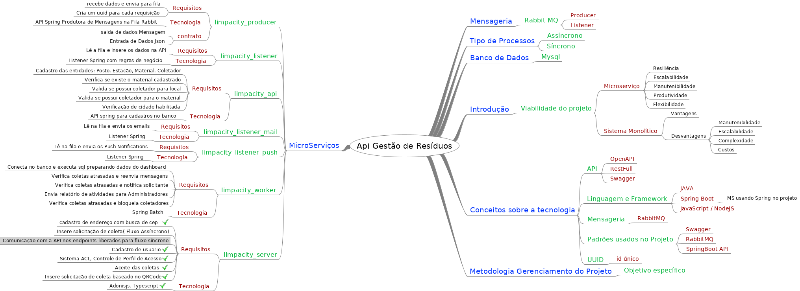
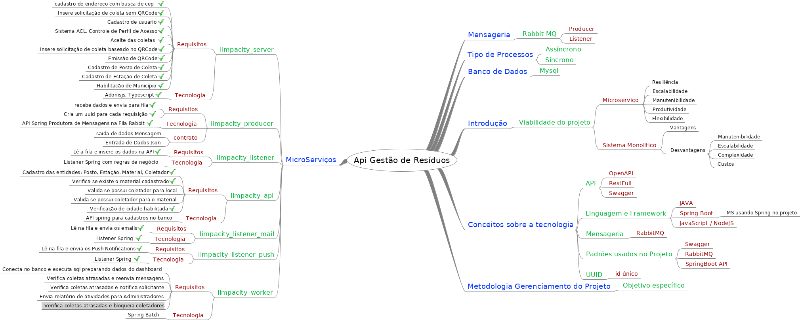
feat: novo endpoint qrcode

diff --git a/app/Controllers/Http/SolicitaColetaQrCodeController.ts b/app/Controllers/Http/SolicitaColetaQrCodeController.ts
@@ -1,0 +1,61 @@
+import { HttpContextContract } from '@ioc:Adonis/Core/HttpContext'
+const axios = require('axios')
+import Env from '@ioc:Adonis/Core/Env'
+const producerQrcodeUrl = Env.get('PRODUCER_QRCODE_URL')
+
+export interface IObjetoColetaQrCode {
+  postoId: string,
+  observacao: string
+}
+
+export default class SolicitaColetaQrCodeController {
+
+  /**
+   * @swagger
+   * /api/qrcode:
+   *   post:
+   *     requestBody:
+   *      content:
+   *        application/json:
+   *          schema:
+   *            type: object
+   *            properties:
+   *              id:
+   *                type: string
+   *                format: uuid
+   *              postoId:
+   *                type: string
+   *                example: 123
+   *                required: true
+   *              observacao:
+   *                type: string
+   *     responses:
+   *       200:
+   *         description: Mensagem enviada com sucesso
+   *         example:
+   *           message: Solicitação enviada, aguarde
+   */
+
+
+  public async store({ request }: HttpContextContract) {
+    const data:any = request.only([
+      'postoId',
+      'observacao'
+    ]);
+    console.log(data);
+
+
+
+    const objetoColetaQrCode: IObjetoColetaQrCode = {
+      postoId: data.postoId,
+      observacao: data.observacao
+    }
+    let solicitaColetaQrCode: any;
+    try {
+      solicitaColetaQrCode = await axios.post(producerQrcodeUrl+data.postoId, objetoColetaQrCode)
+      return solicitaColetaQrCode
+    } catch (error) {
+      error.Request
+    }
+  }
+}

diff --git a/app/Models/SolicitaColeta.ts b/app/Models/SolicitaColeta.ts
@@ -1,5 +1,6 @@
 // import { DateTime } from 'luxon'
-import { BaseModel } from '@ioc:Adonis/Lucid/Orm'
+import {BaseModel, column} from '@ioc:Adonis/Lucid/Orm'
+import {DateTime} from "luxon";
 
 export default class SolicitaColeta extends BaseModel {
   /**
@@ -8,7 +9,7 @@ export default class SolicitaColeta extends BaseModel {
    *    SolicitaColeta:
    *      type: object
    *      properties:
-   *       nomeSolicitante:
+   *       observacao:
    *         type: string
    *       telefone:
    *         type: string

diff --git a/app/Models/SolicitaColetaQrCode.ts b/app/Models/SolicitaColetaQrCode.ts
@@ -1,0 +1,16 @@
+// import { DateTime } from 'luxon'
+import { BaseModel } from '@ioc:Adonis/Lucid/Orm'
+
+export default class SolicitaColetaQrCode extends BaseModel {
+  /**
+   *  @swagger
+   *  definitions:
+   *    SolicitaColetaQrCode:
+   *      type: object
+   *      properties:
+   *       postoId:
+   *         type: string
+   *       observacao:
+   *         type: string
+  */
+}

diff --git a/start/routes.ts b/start/routes.ts
@@ -28,4 +28,5 @@ Route.get('/', async ({ response }) => {
 })
 
 Route.post('/api/solicitacoleta', 'SolicitaColetaController.store')
+Route.post('/api/qrcode', 'SolicitaColetaQrCodeController.store')
 Route.post('/api/endereco/cep', 'EnderecoController.getCep')

diff --git a/docs/limpacity_mapamental.mm b/docs/limpacity_mapamental.mm
@@ -133,18 +133,67 @@
 <node COLOR="#0033ff" CREATED="1617385027289" ID="ID_827839949" MODIFIED="1617387333351" POSITION="left" TEXT="MicroServi&#xe7;os">
 <edge STYLE="sharp_bezier" WIDTH="8"/>
 <font NAME="SansSerif" SIZE="18"/>
+<node COLOR="#00b439" CREATED="1617622982461" ID="ID_191210877" MODIFIED="1617622989605" TEXT="limpacity_server">
+<edge STYLE="bezier" WIDTH="thin"/>
+<font NAME="SansSerif" SIZE="16"/>
+<node COLOR="#990000" CREATED="1617622996673" ID="ID_1390775626" MODIFIED="1617623002361" TEXT="Requisitos">
+<font NAME="SansSerif" SIZE="14"/>
+<node COLOR="#111111" CREATED="1617622885680" ID="ID_1825803125" MODIFIED="1621110416259" TEXT="cadastro de endere&#xe7;o com busca de cep ">
+<font NAME="SansSerif" SIZE="12"/>
+<icon BUILTIN="button_ok"/>
+</node>
+<node COLOR="#111111" CREATED="1617623389057" ID="ID_641814323" MODIFIED="1621112182811" TEXT="Insere solicita&#xe7;&#xe3;o de coleta sem QRCode">
+<icon BUILTIN="button_ok"/>
+</node>
+<node COLOR="#111111" CREATED="1617623675101" ID="ID_1198140502" MODIFIED="1621111063785" TEXT="Cadastro de usuario">
+<icon BUILTIN="button_ok"/>
+</node>
+<node COLOR="#111111" CREATED="1617623719568" ID="ID_1607898888" MODIFIED="1621111067361" TEXT="Sistema ACL, Controle de Perfil de Acesso">
+<icon BUILTIN="button_ok"/>
+</node>
+<node COLOR="#111111" CREATED="1621093170966" ID="ID_1696799322" MODIFIED="1621109881399" TEXT="Aceite das coletas ">
+<icon BUILTIN="button_ok"/>
+</node>
+<node COLOR="#111111" CREATED="1617623389057" ID="ID_605611711" MODIFIED="1621109858988" TEXT="Insere solicita&#xe7;&#xe3;o de coleta baseado no QRCode">
+<icon BUILTIN="button_ok"/>
+</node>
+<node COLOR="#111111" CREATED="1621112072602" ID="ID_350306370" MODIFIED="1621112083876" TEXT="Emiss&#xe3;o de QRCode">
+<icon BUILTIN="button_ok"/>
+</node>
+<node COLOR="#111111" CREATED="1621112091755" ID="ID_1879568166" MODIFIED="1621112146346" TEXT="Cadastro de Posto de Coleta">
+<icon BUILTIN="button_ok"/>
+</node>
+<node COLOR="#111111" CREATED="1621112102619" ID="ID_1912702965" MODIFIED="1621112149034" TEXT="Cadastro de Esta&#xe7;&#xe3;o de Coleta">
+<icon BUILTIN="button_ok"/>
+</node>
+<node COLOR="#111111" CREATED="1621112114002" ID="ID_1759453301" MODIFIED="1621112142198" TEXT="Habilita&#xe7;&#xe3;o de Munic&#xed;pio">
+<icon BUILTIN="button_ok"/>
+</node>
+</node>
+<node COLOR="#990000" CREATED="1617623004478" ID="ID_821103977" MODIFIED="1617623251056" TEXT="Tecnologia">
+<font NAME="SansSerif" SIZE="14"/>
+<node COLOR="#111111" CREATED="1617623252856" ID="ID_1654422844" MODIFIED="1621111070333" TEXT="Adonisjs, Typescript">
+<icon BUILTIN="button_ok"/>
+</node>
+</node>
+</node>
 <node COLOR="#00b439" CREATED="1617385044809" ID="ID_543164937" MODIFIED="1617386501930" TEXT="limpacity_producer">
 <edge STYLE="bezier" WIDTH="thin"/>
 <font NAME="SansSerif" SIZE="16"/>
 <node COLOR="#990000" CREATED="1617385055879" ID="ID_733638615" MODIFIED="1617385076502" TEXT="Requisitos">
 <font NAME="SansSerif" SIZE="14"/>
-<node COLOR="#111111" CREATED="1617385077751" ID="ID_1861931084" MODIFIED="1617385098470" TEXT="recebe dados e envia para fila"/>
-<node COLOR="#111111" CREATED="1617489747024" ID="ID_1008032558" MODIFIED="1617489771861" TEXT="Cria um uuid para cada requisi&#xe7;&#xe3;o"/>
+<node COLOR="#111111" CREATED="1617385077751" ID="ID_1861931084" MODIFIED="1621116150250" TEXT="recebe dados e envia para fila">
+<icon BUILTIN="button_ok"/>
+</node>
+<node COLOR="#111111" CREATED="1617489747024" ID="ID_1008032558" MODIFIED="1621116152446" TEXT="Cria um uuid para cada requisi&#xe7;&#xe3;o">
+<icon BUILTIN="button_ok"/>
+</node>
 </node>
 <node COLOR="#990000" CREATED="1617386858884" ID="ID_195397609" MODIFIED="1617386863301" TEXT="Tecnologia">
 <font NAME="SansSerif" SIZE="14"/>
-<node COLOR="#111111" CREATED="1617386636291" ID="ID_1567916748" MODIFIED="1617386923541" TEXT="API Spring Produtora de Mensagens na Fila Rabbit">
+<node COLOR="#111111" CREATED="1617386636291" ID="ID_1567916748" MODIFIED="1621116158114" TEXT="API Spring Produtora de Mensagens na Fila Rabbit">
 <font NAME="SansSerif" SIZE="12"/>
+<icon BUILTIN="button_ok"/>
 </node>
 </node>
 <node COLOR="#990000" CREATED="1617922917752" ID="ID_1565828204" MODIFIED="1617923065850" TEXT="contrato">
@@ -158,7 +207,9 @@
 <font NAME="SansSerif" SIZE="16"/>
 <node COLOR="#990000" CREATED="1617385192385" ID="ID_1014212628" MODIFIED="1617385200991" TEXT="Requisitos">
 <font NAME="SansSerif" SIZE="14"/>
-<node COLOR="#111111" CREATED="1617385203687" ID="ID_304701577" MODIFIED="1617492506887" TEXT="L&#xea; a fila e insere os dados na API"/>
+<node COLOR="#111111" CREATED="1617385203687" ID="ID_304701577" MODIFIED="1621117869828" TEXT="L&#xea; a fila e insere os dados na API">
+<icon BUILTIN="button_ok"/>
+</node>
 </node>
 <node COLOR="#990000" CREATED="1617386858884" ID="ID_1128323851" MODIFIED="1617386863301" TEXT="Tecnologia">
 <font NAME="SansSerif" SIZE="14"/>
@@ -172,11 +223,17 @@
 <font NAME="SansSerif" SIZE="16"/>
 <node COLOR="#990000" CREATED="1617385729074" ID="ID_1681482165" MODIFIED="1617385758392" TEXT="Requisitos">
 <font NAME="SansSerif" SIZE="14"/>
-<node COLOR="#111111" CREATED="1617385760118" ID="ID_1279009546" MODIFIED="1617385926735" TEXT="Cadastro das entidades: Posto, Esta&#xe7;&#xe3;o, Material, Coletador"/>
-<node COLOR="#111111" CREATED="1617385239706" ID="ID_1625398687" MODIFIED="1617385263707" TEXT="Verifica se existe o material cadastrado"/>
+<node COLOR="#111111" CREATED="1617385760118" ID="ID_1279009546" MODIFIED="1621125350847" TEXT="Cadastro das entidades: Posto, Esta&#xe7;&#xe3;o, Material, Coletador">
+<icon BUILTIN="button_ok"/>
+</node>
+<node COLOR="#111111" CREATED="1617385239706" ID="ID_1625398687" MODIFIED="1621125555579" TEXT="Verifica se existe o material cadastrado">
+<icon BUILTIN="button_ok"/>
+</node>
 <node COLOR="#111111" CREATED="1617385267938" ID="ID_1381197775" MODIFIED="1617385290089" TEXT="Valida se possui coletador para local"/>
 <node COLOR="#111111" CREATED="1617385292124" ID="ID_794812691" MODIFIED="1617385306264" TEXT="Valida se possui coletador para o material"/>
-<node COLOR="#111111" CREATED="1617621947881" ID="ID_608107186" MODIFIED="1617622087936" TEXT="Verifica&#xe7;&#xe3;o de cidade habilitada"/>
+<node COLOR="#111111" CREATED="1617621947881" ID="ID_608107186" MODIFIED="1621125574217" TEXT="Verifica&#xe7;&#xe3;o de cidade habilitada">
+<icon BUILTIN="button_ok"/>
+</node>
 </node>
 <node COLOR="#990000" CREATED="1617386858884" ID="ID_64895742" MODIFIED="1617386863301" TEXT="Tecnologia">
 <font NAME="SansSerif" SIZE="14"/>
@@ -190,11 +247,15 @@
 <font NAME="SansSerif" SIZE="16"/>
 <node COLOR="#990000" CREATED="1617385962799" ID="ID_1201168013" MODIFIED="1617385966227" TEXT="Requisitos">
 <font NAME="SansSerif" SIZE="14"/>
-<node COLOR="#111111" CREATED="1617385966969" ID="ID_829002576" MODIFIED="1617385986359" TEXT="L&#xea; na fila e envia os emails"/>
+<node COLOR="#111111" CREATED="1617385966969" ID="ID_829002576" MODIFIED="1621125589201" TEXT="L&#xea; na fila e envia os emails">
+<icon BUILTIN="button_ok"/>
+</node>
 </node>
 <node COLOR="#990000" CREATED="1617386858884" ID="ID_982856760" MODIFIED="1617386863301" TEXT="Tecnologia">
 <font NAME="SansSerif" SIZE="14"/>
-<node COLOR="#111111" CREATED="1617387202806" ID="ID_1701346749" MODIFIED="1617387208648" TEXT="Listener Spring"/>
+<node COLOR="#111111" CREATED="1617387202806" ID="ID_1701346749" MODIFIED="1621125592121" TEXT="Listener Spring">
+<icon BUILTIN="button_ok"/>
+</node>
 </node>
 </node>
 <node COLOR="#00b439" CREATED="1617385931336" ID="ID_1114776524" MODIFIED="1617386601544" TEXT="limpacity_listener_push">
@@ -202,11 +263,15 @@
 <font NAME="SansSerif" SIZE="16"/>
 <node COLOR="#990000" CREATED="1617385962799" ID="ID_56972858" MODIFIED="1617385966227" TEXT="Requisitos">
 <font NAME="SansSerif" SIZE="14"/>
-<node COLOR="#111111" CREATED="1617385966969" ID="ID_308628945" MODIFIED="1617386041910" TEXT="L&#xea; na fila e envia os Push Notifications"/>
+<node COLOR="#111111" CREATED="1617385966969" ID="ID_308628945" MODIFIED="1621125595098" TEXT="L&#xea; na fila e envia os Push Notifications">
+<icon BUILTIN="button_ok"/>
+</node>
 </node>
 <node COLOR="#990000" CREATED="1617386858884" ID="ID_276311099" MODIFIED="1617386863301" TEXT="Tecnologia">
 <font NAME="SansSerif" SIZE="14"/>
-<node COLOR="#111111" CREATED="1617387202806" ID="ID_1710922636" MODIFIED="1617387208648" TEXT="Listener Spring"/>
+<node COLOR="#111111" CREATED="1617387202806" ID="ID_1710922636" MODIFIED="1621125597801" TEXT="Listener Spring">
+<icon BUILTIN="button_ok"/>
+</node>
 </node>
 </node>
 <node COLOR="#00b439" CREATED="1617386056618" ID="ID_1238817756" MODIFIED="1617386625704" TEXT="limpacity_worker">
@@ -224,37 +289,6 @@
 <font NAME="SansSerif" SIZE="14"/>
 <node COLOR="#111111" CREATED="1617386732843" ID="ID_235038813" MODIFIED="1617386889489" TEXT="Spring Batch">
 <font NAME="SansSerif" SIZE="12"/>
-</node>
-</node>
-</node>
-<node COLOR="#00b439" CREATED="1617622982461" ID="ID_191210877" MODIFIED="1617622989605" TEXT="limpacity_server">
-<edge STYLE="bezier" WIDTH="thin"/>
-<font NAME="SansSerif" SIZE="16"/>
-<node COLOR="#990000" CREATED="1617622996673" ID="ID_1390775626" MODIFIED="1617623002361" TEXT="Requisitos">
-<font NAME="SansSerif" SIZE="14"/>
-<node COLOR="#111111" CREATED="1617622885680" ID="ID_1825803125" MODIFIED="1621110416259" TEXT="cadastro de endere&#xe7;o com busca de cep ">
-<font NAME="SansSerif" SIZE="12"/>
-<icon BUILTIN="button_ok"/>
-</node>
-<node COLOR="#111111" CREATED="1617623389057" ID="ID_641814323" MODIFIED="1617624784442" TEXT="Insere solicita&#xe7;&#xe3;o de coleta( Fluxo Ass&#xed;ncrono)"/>
-<node COLOR="#111111" CREATED="1617623589403" ID="ID_1680761404" MODIFIED="1617623667257" TEXT="Comunica&#xe7;&#xe3;o com a API nos endpoints liberados para fluxo s&#xed;ncrono"/>
-<node COLOR="#111111" CREATED="1617623675101" ID="ID_1198140502" MODIFIED="1621111063785" TEXT="Cadastro de usuario">
-<icon BUILTIN="button_ok"/>
-</node>
-<node COLOR="#111111" CREATED="1617623719568" ID="ID_1607898888" MODIFIED="1621111067361" TEXT="Sistema ACL, Controle de Perfil de Acesso">
-<icon BUILTIN="button_ok"/>
-</node>
-<node COLOR="#111111" CREATED="1621093170966" ID="ID_1696799322" MODIFIED="1621109881399" TEXT="Aceite das coletas ">
-<icon BUILTIN="button_ok"/>
-</node>
-<node COLOR="#111111" CREATED="1617623389057" ID="ID_605611711" MODIFIED="1621109858988" TEXT="Insere solicita&#xe7;&#xe3;o de coleta baseado no QRCode">
-<icon BUILTIN="button_ok"/>
-</node>
-</node>
-<node COLOR="#990000" CREATED="1617623004478" ID="ID_821103977" MODIFIED="1617623251056" TEXT="Tecnologia">
-<font NAME="SansSerif" SIZE="14"/>
-<node COLOR="#111111" CREATED="1617623252856" ID="ID_1654422844" MODIFIED="1621111070333" TEXT="Adonisjs, Typescript">
-<icon BUILTIN="button_ok"/>
 </node>
 </node>
 </node>
